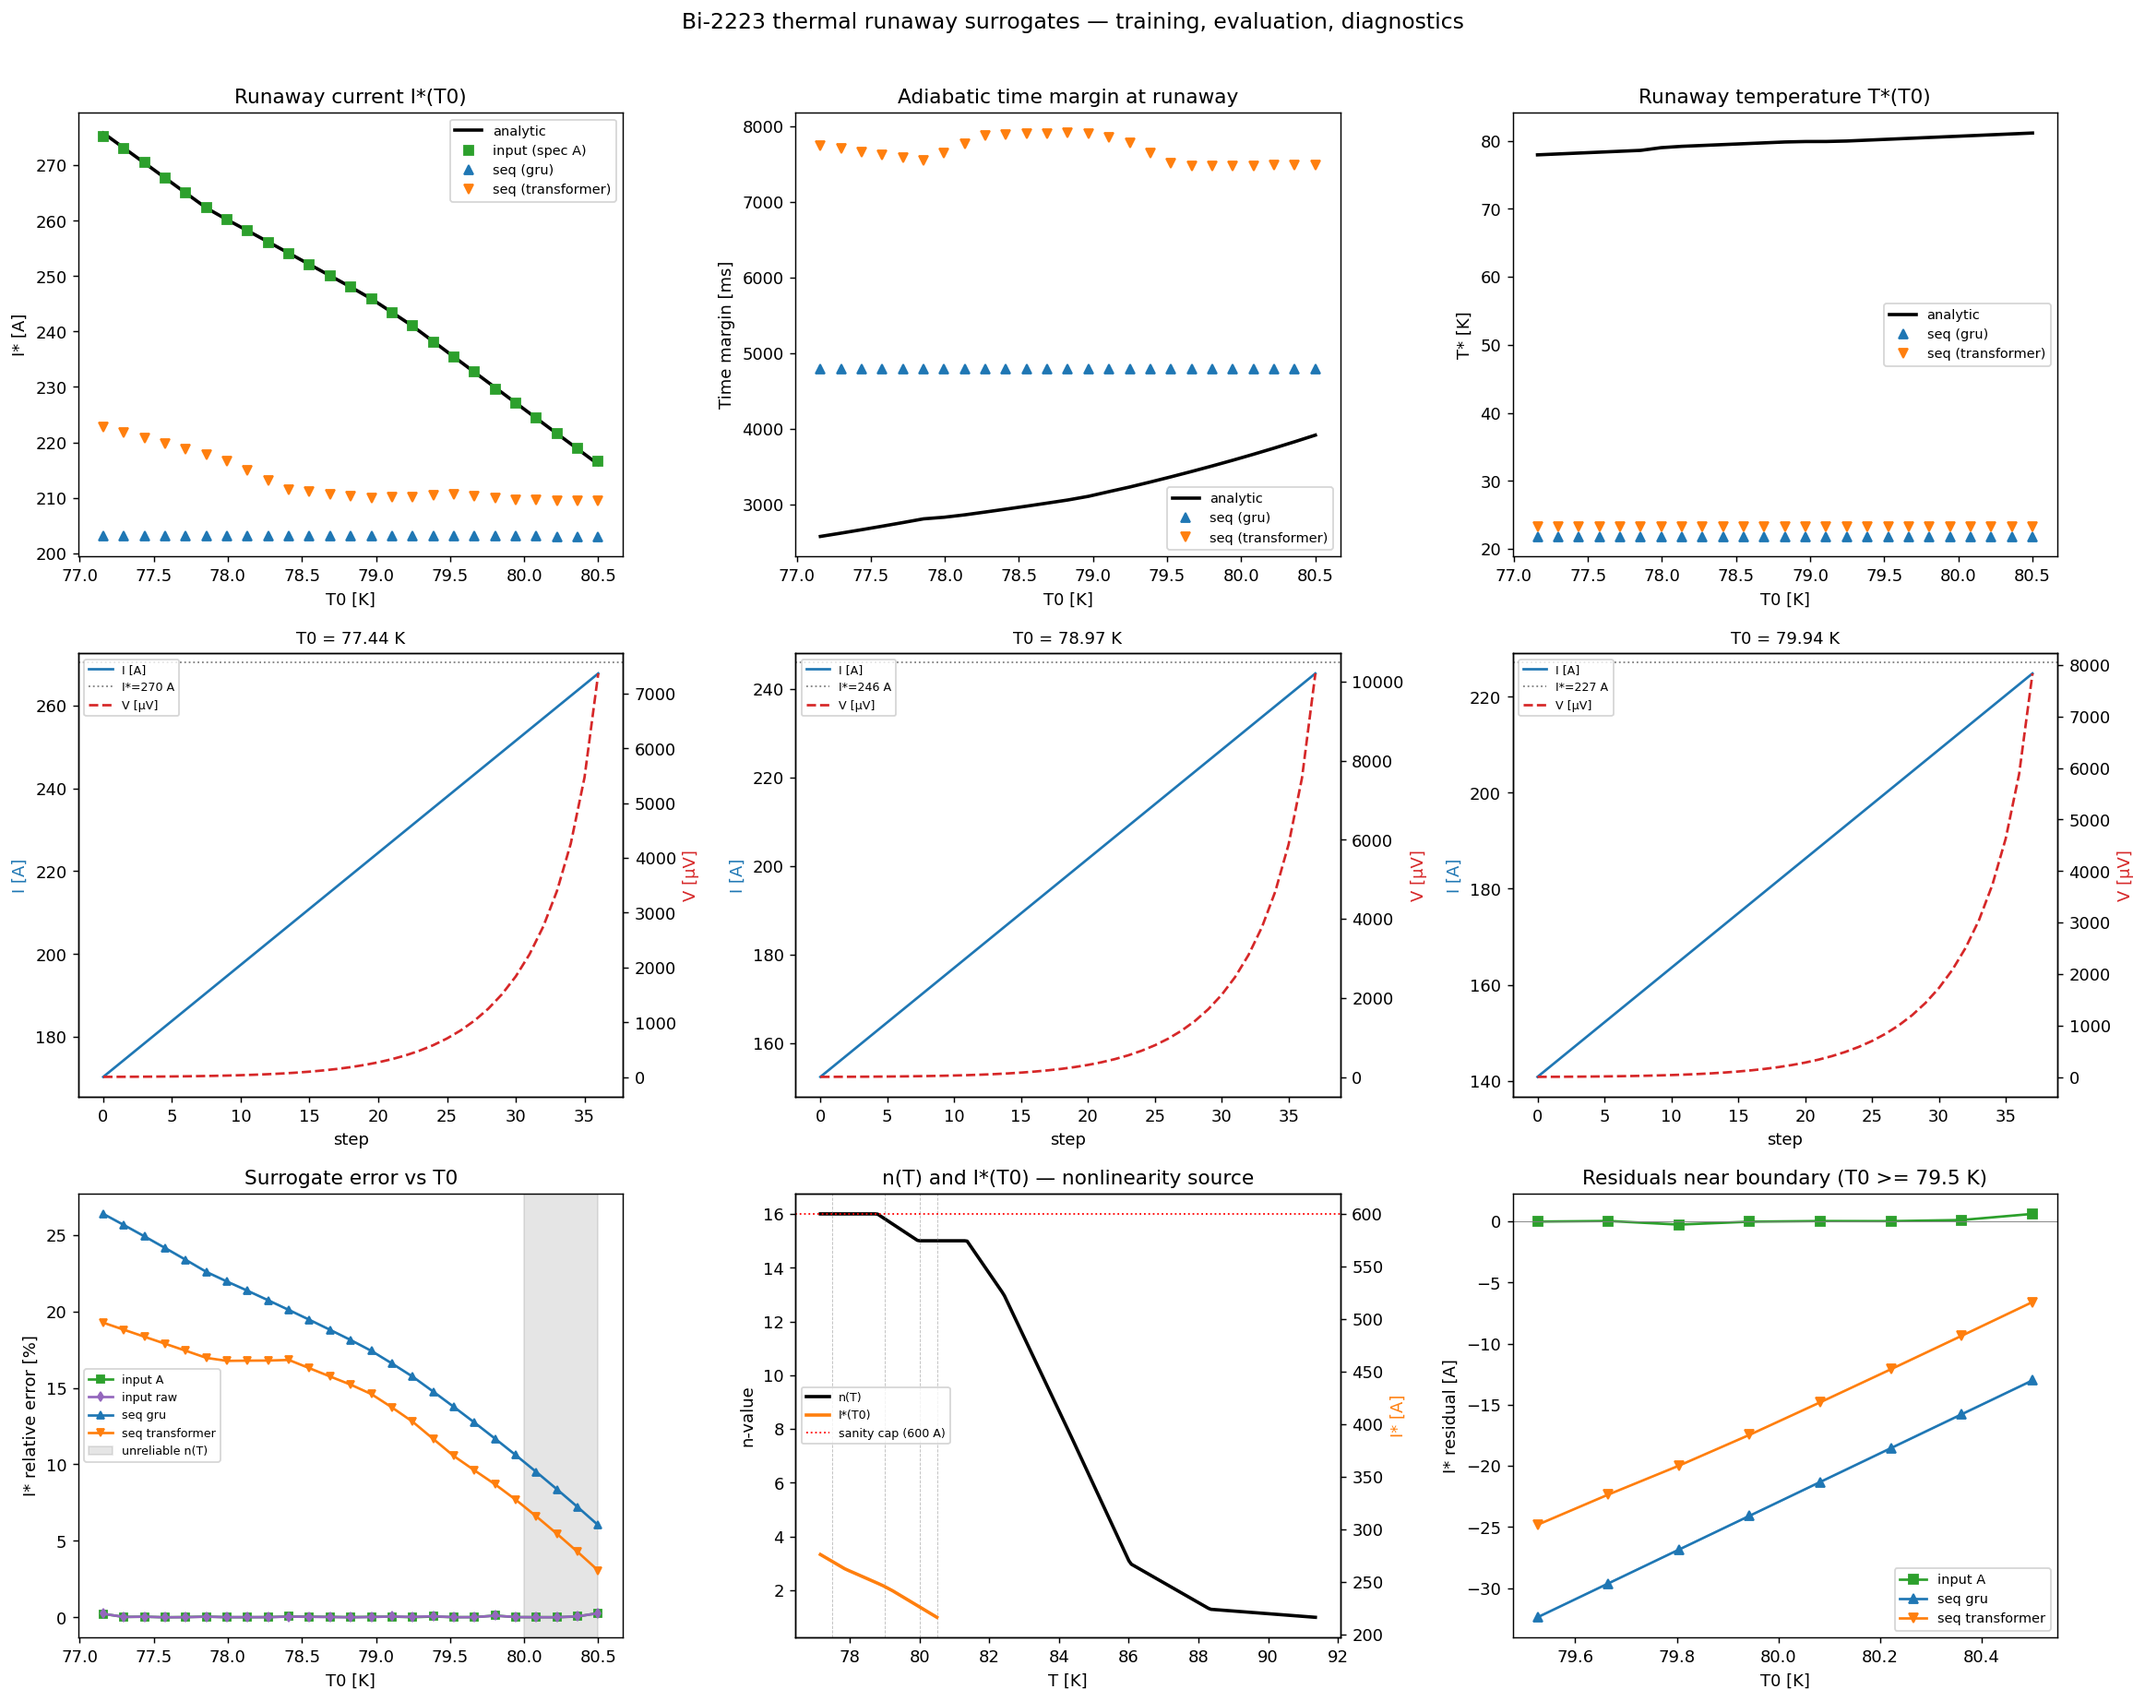
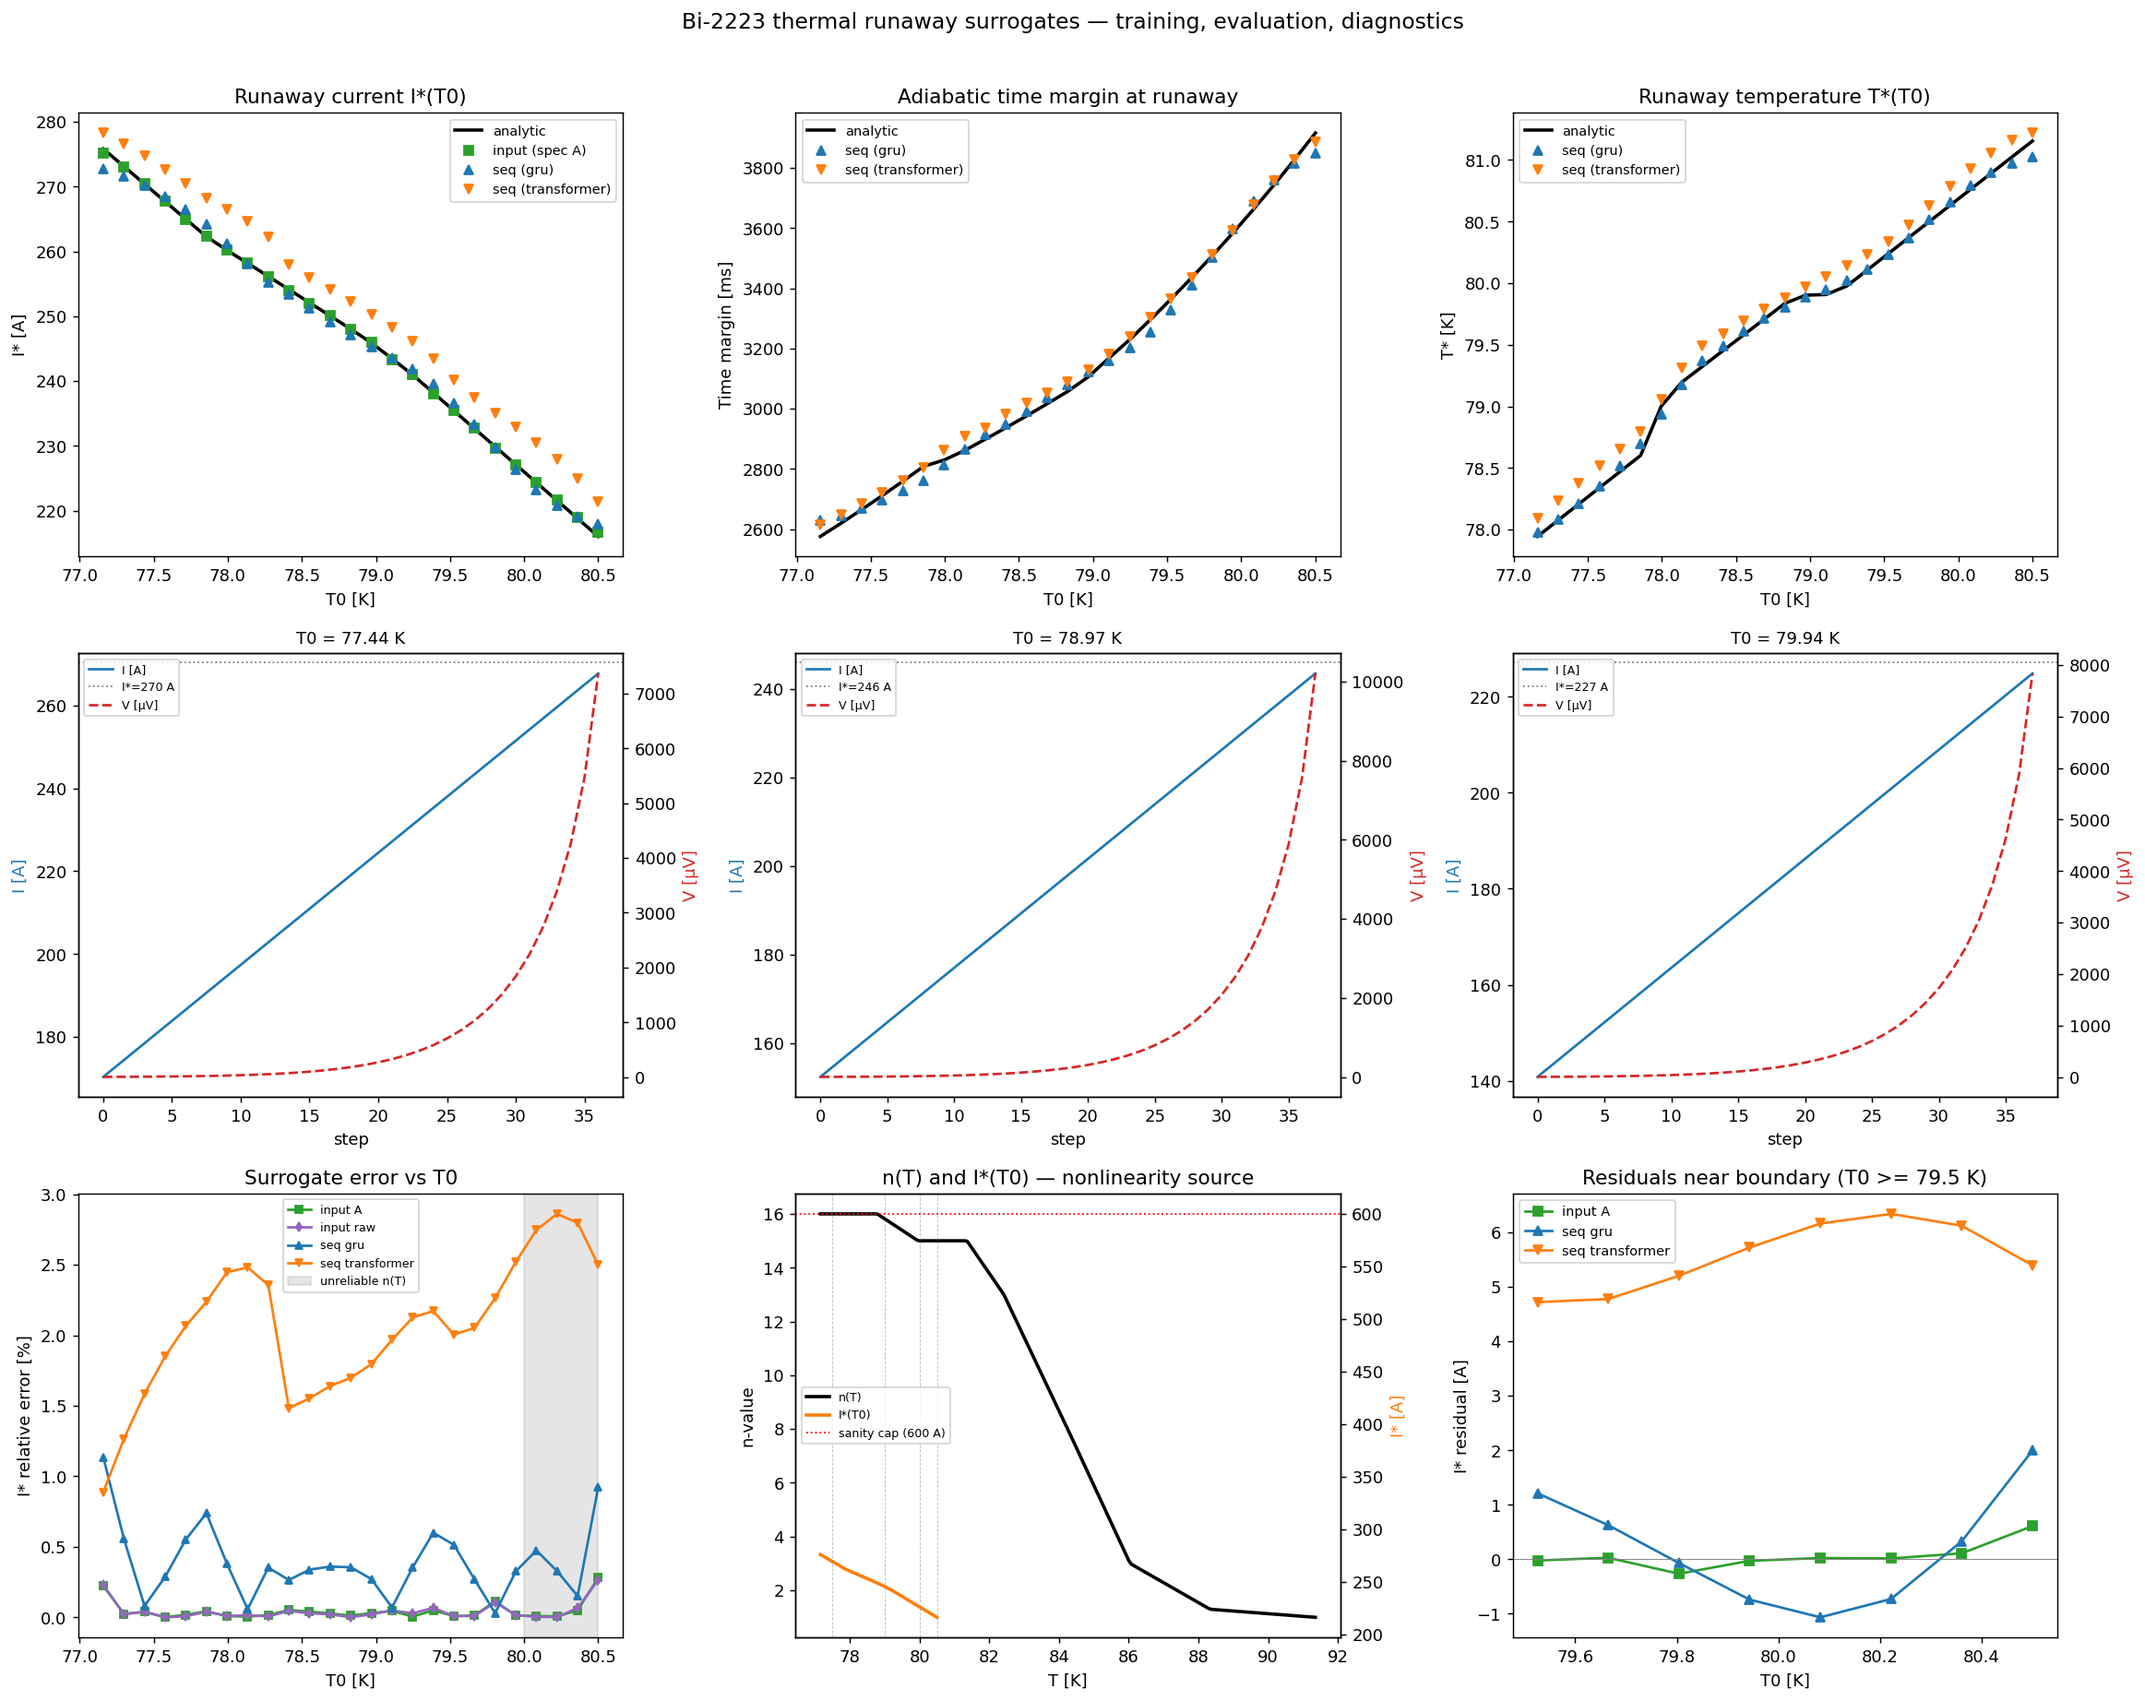
updated from corr4

diff --git a/hts_tape_env/seq_surrogates.py b/hts_tape_env/seq_surrogates.py
@@ -139,12 +139,90 @@ class TransformerSurrogate(nn.Module):
         }
 
 
+class S4DBlock(nn.Module):
+    """Single diagonal state-space layer (S4D-Lin variant).
+
+    Recurrence: h_t = A * h_{t-1} + B * x_t,  y_t = Re(C * h_t) + D * x_t
+    where A is a complex diagonal initialized on the negative real half-plane
+    (HiPPO-inspired). Pure PyTorch, no custom CUDA kernels.
+    """
+
+    def __init__(self, d_model: int, d_state: int = 64, dropout: float = 0.1):
+        super().__init__()
+        self.d_model = d_model
+        self.d_state = d_state
+        log_dt = torch.rand(d_model) * (np.log(0.1) - np.log(0.001)) + np.log(0.001)
+        self.log_dt = nn.Parameter(log_dt)
+        A_real = -0.5 * torch.ones(d_model, d_state)
+        A_imag = torch.arange(d_state).float().unsqueeze(0).expand(d_model, -1) * np.pi
+        self.A_real = nn.Parameter(A_real)
+        self.A_imag = nn.Parameter(A_imag)
+        self.B_re = nn.Parameter(torch.randn(d_model, d_state) * 0.02)
+        self.B_im = nn.Parameter(torch.randn(d_model, d_state) * 0.02)
+        self.C_re = nn.Parameter(torch.randn(d_model, d_state) * 0.02)
+        self.C_im = nn.Parameter(torch.randn(d_model, d_state) * 0.02)
+        self.D = nn.Parameter(torch.ones(d_model))
+        self.dropout = nn.Dropout(dropout)
+        self.norm = nn.LayerNorm(d_model)
+
+    def forward(self, x: torch.Tensor, lengths: torch.Tensor | None = None) -> torch.Tensor:
+        """x: [B, T, d_model] -> [B, T, d_model]"""
+        B, T, _ = x.shape
+        dt = self.log_dt.exp()
+        A = torch.complex(self.A_real, self.A_imag)
+        dA = torch.exp(A * dt.unsqueeze(-1))           # [d_model, d_state]
+        B_c = torch.complex(self.B_re, self.B_im)
+        dB = B_c * dt.unsqueeze(-1)                    # [d_model, d_state]
+        C_c = torch.complex(self.C_re, self.C_im)
+
+        h = torch.zeros(B, self.d_model, self.d_state, dtype=torch.cfloat, device=x.device)
+        ys = []
+        for t in range(T):
+            h = dA.unsqueeze(0) * h + dB.unsqueeze(0) * x[:, t, :].unsqueeze(-1).to(torch.cfloat)
+            y_t = (C_c.unsqueeze(0) * h).sum(-1).real + self.D.unsqueeze(0) * x[:, t]
+            ys.append(y_t)
+        y = torch.stack(ys, dim=1)
+        return self.norm(self.dropout(y) + x)
+
+
+class SSMSurrogate(nn.Module):
+    """State-space model surrogate using stacked diagonal S4D blocks."""
+
+    def __init__(self, n_features: int = 4, hidden: int = 64, n_layers: int = 2,
+                 d_state: int = 64, dropout: float = 0.1):
+        super().__init__()
+        self.in_proj = nn.Linear(n_features, hidden)
+        self.blocks = nn.ModuleList([S4DBlock(hidden, d_state, dropout) for _ in range(n_layers)])
+        self.margin_head = nn.Linear(hidden, 1)
+        self.breach_head = nn.Linear(hidden, 1)
+        self.istar_head = nn.Sequential(nn.Linear(hidden, hidden), nn.SiLU(), nn.Linear(hidden, 1))
+        self.tstar_head = nn.Sequential(nn.Linear(hidden, hidden), nn.SiLU(), nn.Linear(hidden, 1))
+        self.time_margin_head = nn.Sequential(nn.Linear(hidden, hidden), nn.SiLU(), nn.Linear(hidden, 1))
+
+    def forward(self, X: torch.Tensor, lengths: torch.Tensor) -> dict:
+        B, T, _ = X.shape
+        h = self.in_proj(X)
+        for block in self.blocks:
+            h = block(h, lengths)
+        idx = (lengths - 1).clamp(min=0).to(X.device)
+        h_last = h[torch.arange(B, device=X.device), idx]
+        return {
+            "margin": self.margin_head(h).squeeze(-1),
+            "breach_logit": self.breach_head(h).squeeze(-1),
+            "istar_log": self.istar_head(h_last).squeeze(-1),
+            "tstar": self.tstar_head(h_last).squeeze(-1),
+            "time_margin_log": self.time_margin_head(h_last).squeeze(-1),
+        }
+
+
 def build_model(arch: str, **kwargs) -> nn.Module:
     if arch == "gru":
         return GRUSurrogate(**kwargs)
     if arch == "transformer":
         return TransformerSurrogate(**kwargs)
-    raise KeyError(f"unknown arch '{arch}', expected 'gru' or 'transformer'")
+    if arch == "ssm":
+        return SSMSurrogate(**kwargs)
+    raise KeyError(f"unknown arch '{arch}', expected 'gru', 'transformer', or 'ssm'")
 
 
 # ── Train / evaluate / persist ────────────────────────────────────────────────

diff --git a/scripts/train_eval_bi2223_surrogates.py b/scripts/train_eval_bi2223_surrogates.py
@@ -49,8 +49,8 @@ from hts_tape_env.seq_surrogates import predict_episode, train_seq_surrogate  # 
 from hts_tape_env.surrogates import train_spec  # noqa: E402
 from hts_tape_env.thermal_bi2223 import time_margin_to_safe  # noqa: E402
 
-SEQ_COLORS = {"gru": "tab:blue", "transformer": "tab:orange"}
-SEQ_MARKERS = {"gru": "^", "transformer": "v"}
+SEQ_COLORS = {"gru": "tab:blue", "transformer": "tab:orange", "ssm": "tab:red"}
+SEQ_MARKERS = {"gru": "^", "transformer": "v", "ssm": "D"}
 
 
 def _make_main_figure(T0_eval, Istar_analytic, Tstar_analytic, tm_analytic_ms,
@@ -260,9 +260,9 @@ def main():
     ap = argparse.ArgumentParser(description=__doc__,
                                  formatter_class=argparse.RawDescriptionHelpFormatter)
     ap.add_argument("--n-datagen", type=int, default=3000)
-    ap.add_argument("--n-rollout-points", type=int, default=20)
-    ap.add_argument("--arch", nargs="+", choices=["gru", "transformer"],
-                    default=["gru", "transformer"])
+    ap.add_argument("--n-rollout-points", type=int, default=5000)
+    ap.add_argument("--arch", nargs="+", choices=["gru", "transformer", "ssm"],
+                    default=["gru", "transformer", "ssm"])
     ap.add_argument("--epochs", type=int, default=60)
     ap.add_argument("--seed", type=int, default=7)
     ap.add_argument("--n-eval-points", type=int, default=25)
